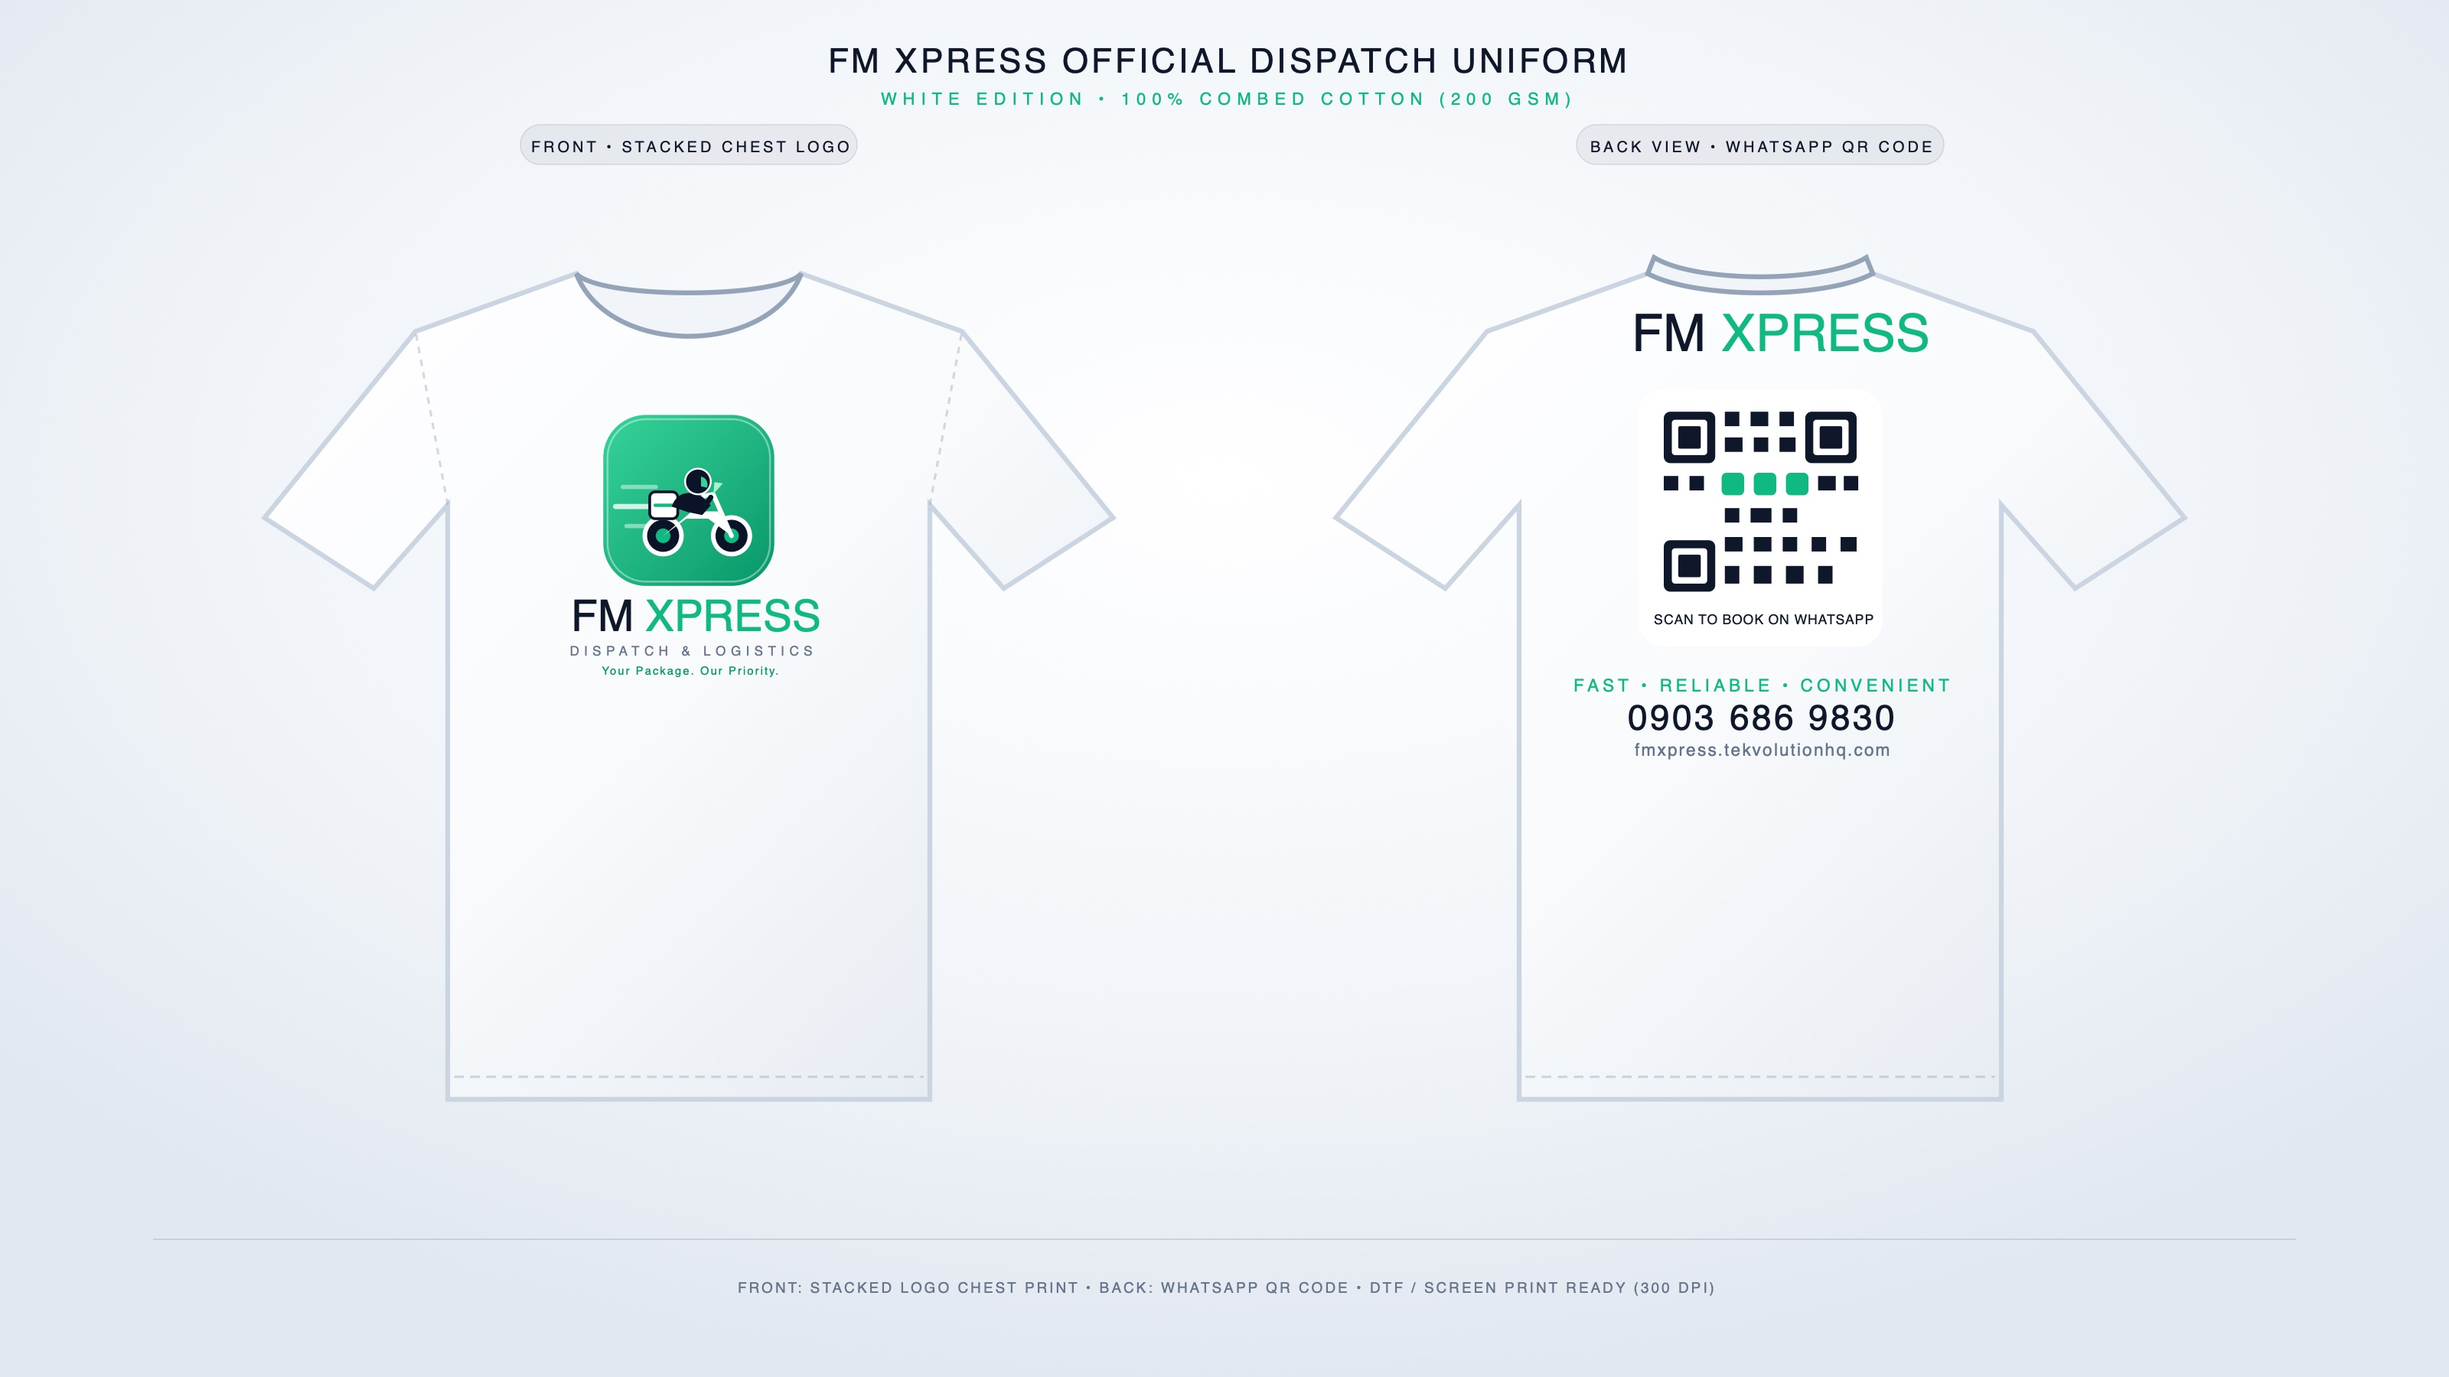
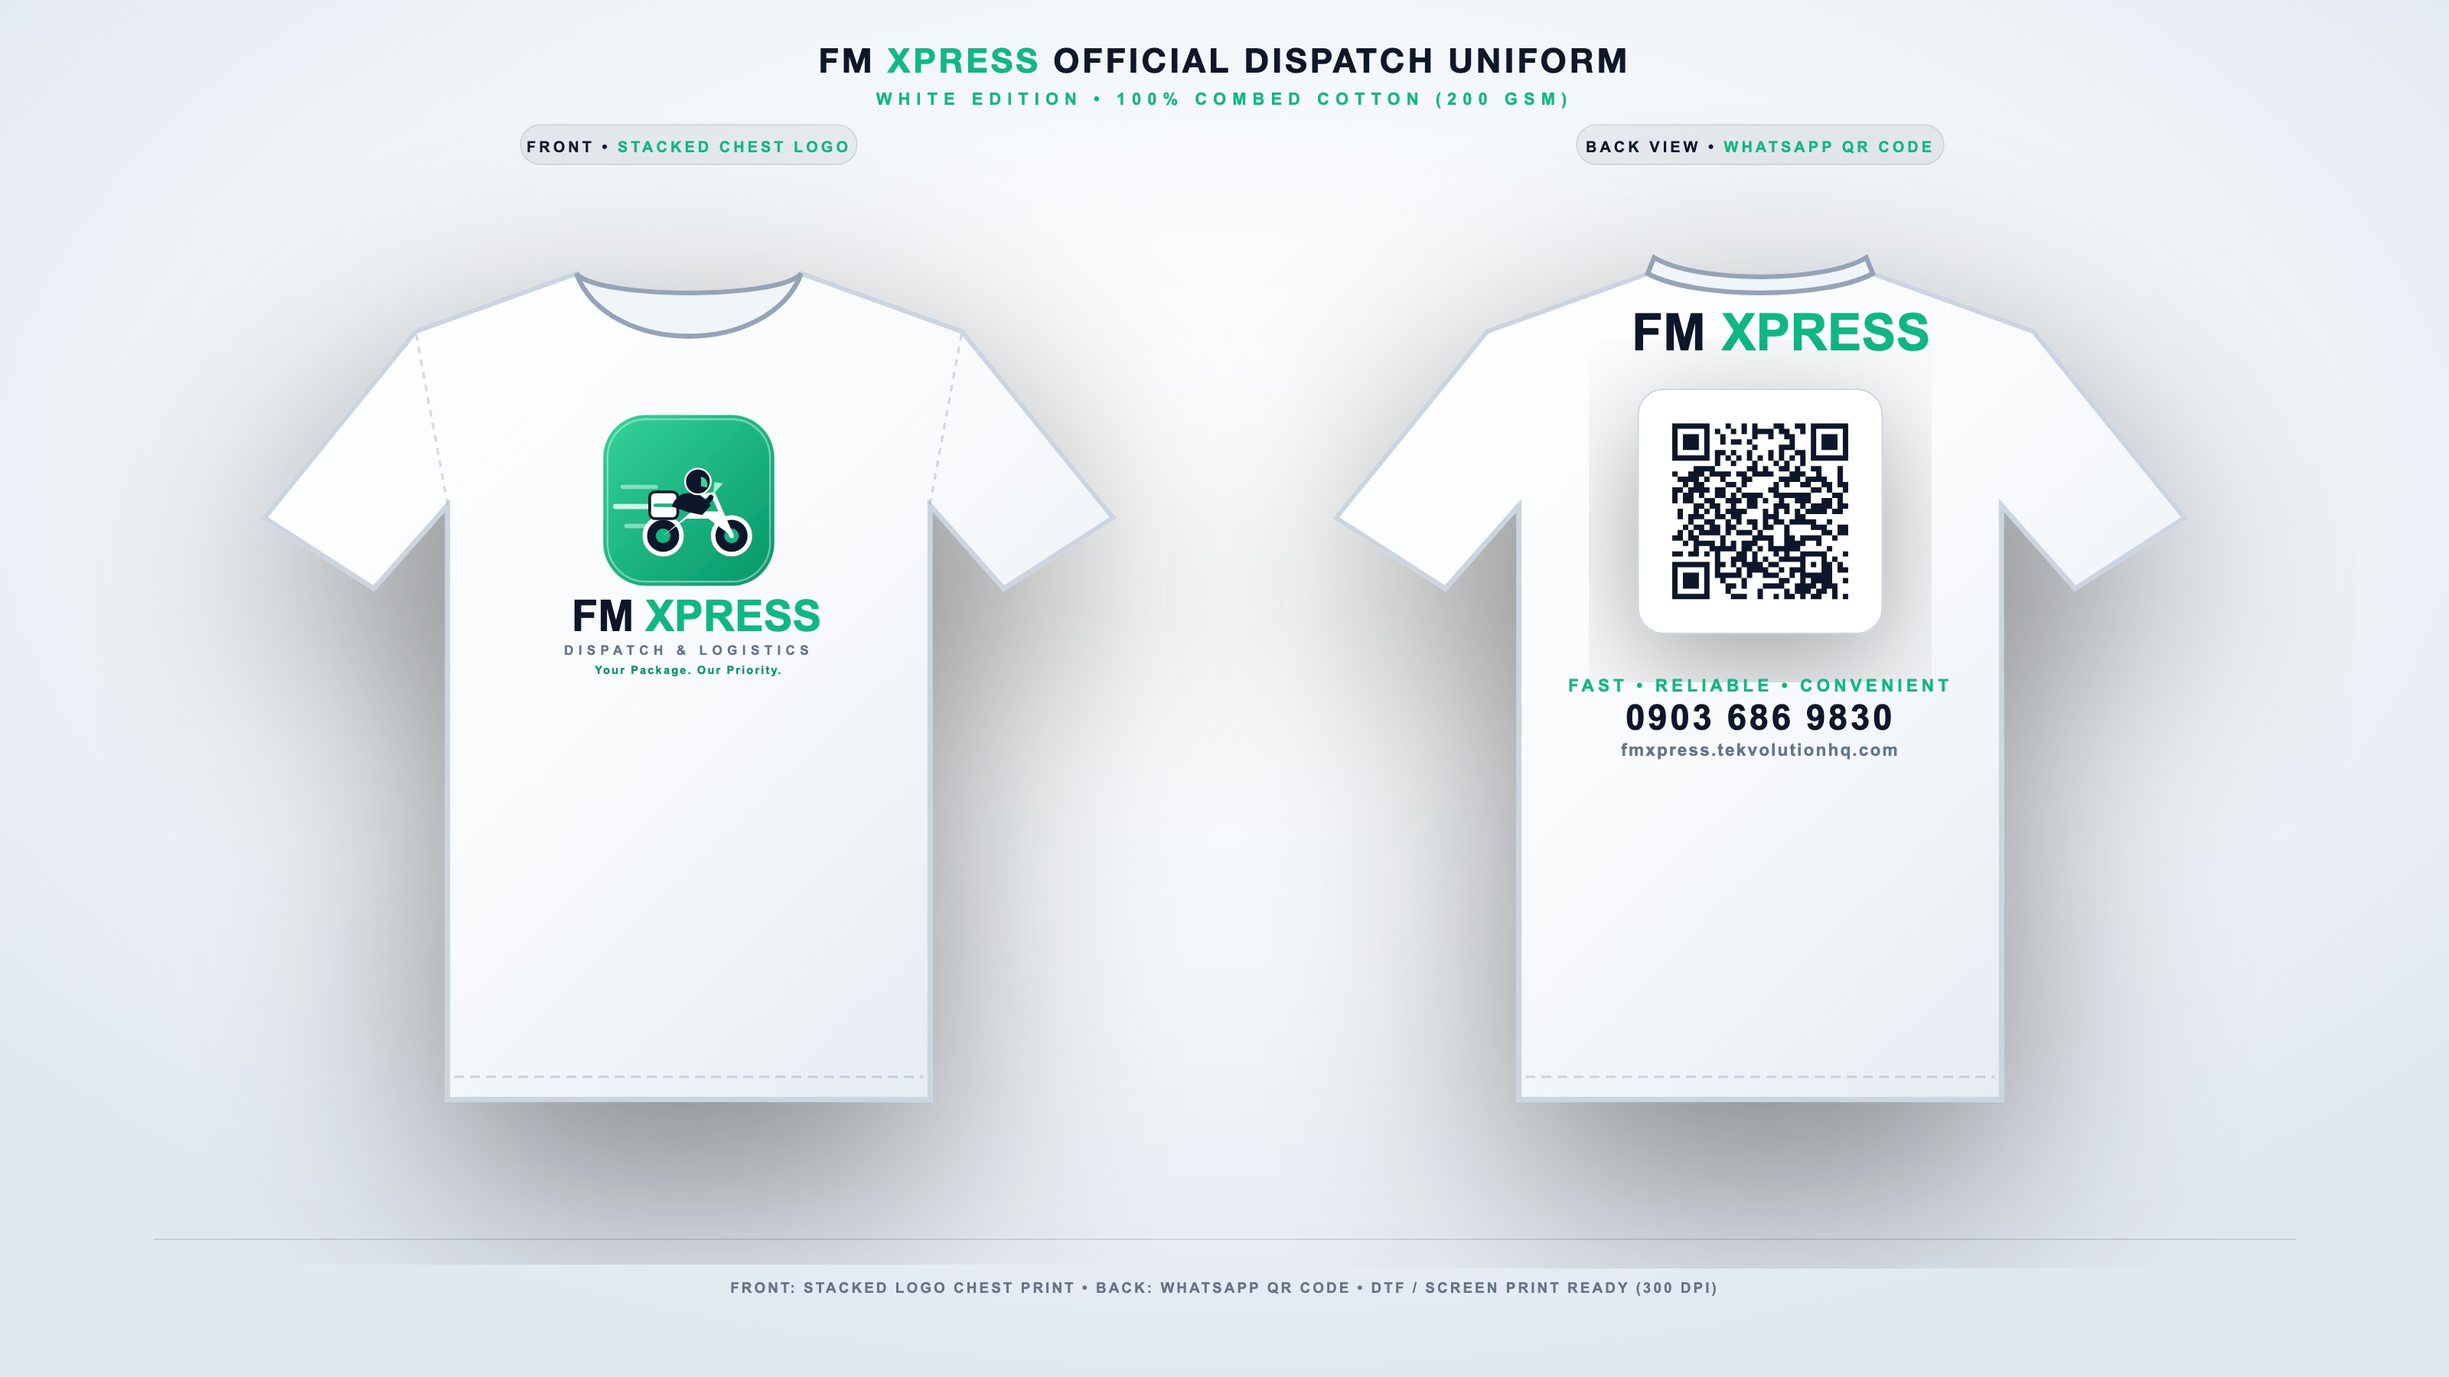
Replace mock T-shirt QR code with verified scannable WhatsApp vector QR (Level H)

diff --git a/public/tshirt-prototype.html b/public/tshirt-prototype.html
@@ -224,80 +224,26 @@
                 <tspan id="back-fm-text" fill="#FFFFFF" class="tshirt-transition">FM</tspan>
                 <tspan fill="#10B981" font-weight="900"> XPRESS</tspan>
               </text>
-              <text id="back-tagline" y="8.5" font-family="system-ui, -apple-system, sans-serif" font-weight="800" font-size="4.6" fill="#FFFFFF" letter-spacing="0.5" opacity="0.9" class="tshirt-transition">
-                YOUR PACKAGE. OUR PRIORITY.
-              </text>
-              <text y="16.5" font-family="system-ui, -apple-system, sans-serif" font-weight="800" font-size="4.8" fill="#10B981" letter-spacing="1.2">
-                CHAT &amp; BOOK ON WHATSAPP
-              </text>
 
-              <!-- QR CODE CONTAINER BADGE (PURE QR CODE) -->
-              <g transform="translate(-38, 20)">
+              <!-- QR CODE CONTAINER BADGE (PURE SCANNABLE QR CODE) -->
+              <g transform="translate(-38, 14)">
                 <!-- Crisp White Card with soft shadow -->
-                <rect width="76" height="80" rx="8" fill="#FFFFFF" filter="drop-shadow(0 4px 10px rgba(0,0,0,0.45))"/>
-                
-                <!-- === QR CODE SECTION === -->
-                <!-- Top-Left Finder Pattern -->
-                <rect x="8" y="7" width="16" height="16" fill="#0f172a" rx="2"/>
-                <rect x="10.5" y="9.5" width="11" height="11" fill="#FFFFFF" rx="1"/>
-                <rect x="12.5" y="11.5" width="7" height="7" fill="#0f172a" rx="0.5"/>
-
-                <!-- Top-Right Finder Pattern -->
-                <rect x="52" y="7" width="16" height="16" fill="#0f172a" rx="2"/>
-                <rect x="54.5" y="9.5" width="11" height="11" fill="#FFFFFF" rx="1"/>
-                <rect x="56.5" y="11.5" width="7" height="7" fill="#0f172a" rx="0.5"/>
-
-                <!-- Bottom-Left Finder Pattern -->
-                <rect x="8" y="47" width="16" height="16" fill="#0f172a" rx="2"/>
-                <rect x="10.5" y="49.5" width="11" height="11" fill="#FFFFFF" rx="1"/>
-                <rect x="12.5" y="51.5" width="7" height="7" fill="#0f172a" rx="0.5"/>
-
-                <!-- QR Data Matrix Dots -->
-                <rect x="27" y="7" width="4.5" height="4.5" fill="#0f172a"/>
-                <rect x="35" y="7" width="5.5" height="4.5" fill="#0f172a"/>
-                <rect x="44" y="7" width="4.5" height="4.5" fill="#0f172a"/>
-                <rect x="27" y="15" width="5.5" height="4.5" fill="#0f172a"/>
-                <rect x="36" y="15" width="4.5" height="4.5" fill="#0f172a"/>
-                <rect x="44" y="15" width="5" height="4.5" fill="#0f172a"/>
-                <rect x="8" y="27" width="4.5" height="4.5" fill="#0f172a"/>
-                <rect x="16" y="27" width="4.5" height="4.5" fill="#0f172a"/>
-                
-                <!-- Center Emerald Brand Target inside QR -->
-                <rect x="26" y="26" width="7" height="7" fill="#10B981" rx="1.5"/>
-                <rect x="36" y="26" width="7" height="7" fill="#10B981" rx="1.5"/>
-                <rect x="46" y="26" width="7" height="7" fill="#10B981" rx="1.5"/>
-                
-                <rect x="56" y="27" width="5.5" height="4.5" fill="#0f172a"/>
-                <rect x="64" y="27" width="4.5" height="4.5" fill="#0f172a"/>
-                <rect x="27" y="37" width="4.5" height="4.5" fill="#0f172a"/>
-                <rect x="35" y="37" width="6.5" height="4.5" fill="#0f172a"/>
-                <rect x="45" y="37" width="4.5" height="4.5" fill="#0f172a"/>
-                <rect x="27" y="46" width="5.5" height="4.5" fill="#0f172a"/>
-                <rect x="36" y="46" width="5.5" height="4.5" fill="#0f172a"/>
-                <rect x="45" y="46" width="4.5" height="4.5" fill="#0f172a"/>
-                <rect x="54" y="46" width="4.5" height="4.5" fill="#0f172a"/>
-                <rect x="63" y="46" width="5" height="4.5" fill="#0f172a"/>
-                <rect x="27" y="55" width="4.5" height="5.5" fill="#0f172a"/>
-                <rect x="36" y="55" width="5.5" height="5.5" fill="#0f172a"/>
-                <rect x="46" y="55" width="5.5" height="5.5" fill="#0f172a"/>
-                <rect x="56" y="55" width="4.5" height="5.5" fill="#0f172a"/>
-
-                <!-- SCAN TO CHAT LABEL -->
-                <text x="38" y="73" font-family="system-ui, -apple-system, sans-serif" font-weight="900" font-size="5" fill="#0f172a" text-anchor="middle" letter-spacing="0.4">
-                  SCAN TO BOOK ON WHATSAPP
-                </text>
+                <rect width="76" height="76" rx="8" fill="#FFFFFF" filter="drop-shadow(0 4px 10px rgba(0,0,0,0.45))"/>
+                <g transform="translate(4, 4) scale(1.6585365)">
+                  <path fill="#0F172A" d="M4,4H5V5H4zM5,4H6V5H5zM6,4H7V5H6zM7,4H8V5H7zM8,4H9V5H8zM9,4H10V5H9zM10,4H11V5H10zM14,4H15V5H14zM17,4H18V5H17zM19,4H20V5H19zM23,4H24V5H23zM24,4H25V5H24zM27,4H28V5H27zM28,4H29V5H28zM30,4H31V5H30zM31,4H32V5H31zM32,4H33V5H32zM33,4H34V5H33zM34,4H35V5H34zM35,4H36V5H35zM36,4H37V5H36zM4,5H5V6H4zM10,5H11V6H10zM12,5H13V6H12zM15,5H16V6H15zM17,5H18V6H17zM19,5H20V6H19zM20,5H21V6H20zM21,5H22V6H21zM22,5H23V6H22zM24,5H25V6H24zM25,5H26V6H25zM28,5H29V6H28zM30,5H31V6H30zM36,5H37V6H36zM4,6H5V7H4zM6,6H7V7H6zM7,6H8V7H7zM8,6H9V7H8zM10,6H11V7H10zM13,6H14V7H13zM19,6H20V7H19zM22,6H23V7H22zM25,6H26V7H25zM26,6H27V7H26zM30,6H31V7H30zM32,6H33V7H32zM33,6H34V7H33zM34,6H35V7H34zM36,6H37V7H36zM4,7H5V8H4zM6,7H7V8H6zM7,7H8V8H7zM8,7H9V8H8zM10,7H11V8H10zM13,7H14V8H13zM15,7H16V8H15zM16,7H17V8H16zM18,7H19V8H18zM26,7H27V8H26zM30,7H31V8H30zM32,7H33V8H32zM33,7H34V8H33zM34,7H35V8H34zM36,7H37V8H36zM4,8H5V9H4zM6,8H7V9H6zM7,8H8V9H7zM8,8H9V9H8zM10,8H11V9H10zM19,8H20V9H19zM24,8H25V9H24zM25,8H26V9H25zM26,8H27V9H26zM30,8H31V9H30zM32,8H33V9H32zM33,8H34V9H33zM34,8H35V9H34zM36,8H37V9H36zM4,9H5V10H4zM10,9H11V10H10zM12,9H13V10H12zM13,9H14V10H13zM15,9H16V10H15zM18,9H19V10H18zM22,9H23V10H22zM24,9H25V10H24zM27,9H28V10H27zM28,9H29V10H28zM30,9H31V10H30zM36,9H37V10H36zM4,10H5V11H4zM5,10H6V11H5zM6,10H7V11H6zM7,10H8V11H7zM8,10H9V11H8zM9,10H10V11H9zM10,10H11V11H10zM12,10H13V11H12zM14,10H15V11H14zM16,10H17V11H16zM18,10H19V11H18zM20,10H21V11H20zM22,10H23V11H22zM24,10H25V11H24zM26,10H27V11H26zM28,10H29V11H28zM30,10H31V11H30zM31,10H32V11H31zM32,10H33V11H32zM33,10H34V11H33zM34,10H35V11H34zM35,10H36V11H35zM36,10H37V11H36zM12,11H13V12H12zM15,11H16V12H15zM19,11H20V12H19zM23,11H24V12H23zM25,11H26V12H25zM28,11H29V12H28zM8,12H9V13H8zM9,12H10V13H9zM10,12H11V13H10zM11,12H12V13H11zM18,12H19V13H18zM19,12H20V13H19zM21,12H22V13H21zM24,12H25V13H24zM25,12H26V13H25zM27,12H28V13H27zM30,12H31V13H30zM31,12H32V13H31zM35,12H36V13H35zM4,13H5V14H4zM7,13H8V14H7zM8,13H9V14H8zM9,13H10V14H9zM11,13H12V14H11zM12,13H13V14H12zM13,13H14V14H13zM14,13H15V14H14zM16,13H17V14H16zM17,13H18V14H17zM19,13H20V14H19zM20,13H21V14H20zM21,13H22V14H21zM22,13H23V14H22zM26,13H27V14H26zM27,13H28V14H27zM28,13H29V14H28zM31,13H32V14H31zM35,13H36V14H35zM5,14H6V15H5zM6,14H7V15H6zM7,14H8V15H7zM8,14H9V15H8zM10,14H11V15H10zM13,14H14V15H13zM17,14H18V15H17zM18,14H19V15H18zM24,14H25V15H24zM25,14H26V15H25zM26,14H27V15H26zM27,14H28V15H27zM29,14H30V15H29zM30,14H31V15H30zM31,14H32V15H31zM32,14H33V15H32zM35,14H36V15H35zM6,15H7V16H6zM8,15H9V16H8zM9,15H10V16H9zM14,15H15V16H14zM15,15H16V16H15zM17,15H18V16H17zM23,15H24V16H23zM25,15H26V16H25zM28,15H29V16H28zM29,15H30V16H29zM32,15H33V16H32zM33,15H34V16H33zM35,15H36V16H35zM36,15H37V16H36zM4,16H5V17H4zM5,16H6V17H5zM7,16H8V17H7zM8,16H9V17H8zM9,16H10V17H9zM10,16H11V17H10zM12,16H13V17H12zM13,16H14V17H13zM16,16H17V17H16zM22,16H23V17H22zM23,16H24V17H23zM30,16H31V17H30zM31,16H32V17H31zM33,16H34V17H33zM36,16H37V17H36zM4,17H5V18H4zM6,17H7V18H6zM7,17H8V18H7zM9,17H10V18H9zM12,17H13V18H12zM13,17H14V18H13zM15,17H16V18H15zM17,17H18V18H17zM18,17H19V18H18zM19,17H20V18H19zM20,17H21V18H20zM23,17H24V18H23zM24,17H25V18H24zM25,17H26V18H25zM26,17H27V18H26zM27,17H28V18H27zM28,17H29V18H28zM29,17H30V18H29zM34,17H35V18H34zM35,17H36V18H35zM4,18H5V19H4zM6,18H7V19H6zM7,18H8V19H7zM10,18H11V19H10zM11,18H12V19H11zM14,18H15V19H14zM15,18H16V19H15zM16,18H17V19H16zM18,18H19V19H18zM19,18H20V19H19zM21,18H22V19H21zM24,18H25V19H24zM27,18H28V19H27zM28,18H29V19H28zM29,18H30V19H29zM32,18H33V19H32zM33,18H34V19H33zM35,18H36V19H35zM8,19H9V20H8zM9,19H10V20H9zM11,19H12V20H11zM12,19H13V20H12zM15,19H16V20H15zM18,19H19V20H18zM19,19H20V20H19zM23,19H24V20H23zM24,19H25V20H24zM25,19H26V20H25zM28,19H29V20H28zM30,19H31V20H30zM31,19H32V20H31zM32,19H33V20H32zM33,19H34V20H33zM35,19H36V20H35zM36,19H37V20H36zM5,20H6V21H5zM8,20H9V21H8zM10,20H11V21H10zM12,20H13V21H12zM14,20H15V21H14zM15,20H16V21H15zM16,20H17V21H16zM17,20H18V21H17zM21,20H22V21H21zM23,20H24V21H23zM25,20H26V21H25zM27,20H28V21H27zM29,20H30V21H29zM30,20H31V21H30zM31,20H32V21H31zM32,20H33V21H32zM34,20H35V21H34zM35,20H36V21H35zM5,21H6V22H5zM7,21H8V22H7zM8,21H9V22H8zM9,21H10V22H9zM12,21H13V22H12zM13,21H14V22H13zM15,21H16V22H15zM16,21H17V22H16zM21,21H22V22H21zM22,21H23V22H22zM23,21H24V22H23zM27,21H28V22H27zM28,21H29V22H28zM7,22H8V23H7zM10,22H11V23H10zM11,22H12V23H11zM14,22H15V23H14zM16,22H17V23H16zM18,22H19V23H18zM19,22H20V23H19zM21,22H22V23H21zM23,22H24V23H23zM24,22H25V23H24zM26,22H27V23H26zM27,22H28V23H27zM28,22H29V23H28zM29,22H30V23H29zM30,22H31V23H30zM33,22H34V23H33zM6,23H7V24H6zM8,23H9V24H8zM9,23H10V24H9zM11,23H12V24H11zM12,23H13V24H12zM14,23H15V24H14zM15,23H16V24H15zM19,23H20V24H19zM21,23H22V24H21zM22,23H23V24H22zM25,23H26V24H25zM30,23H31V24H30zM31,23H32V24H31zM32,23H33V24H32zM35,23H36V24H35zM36,23H37V24H36zM5,24H6V25H5zM7,24H8V25H7zM9,24H10V25H9zM10,24H11V25H10zM11,24H12V25H11zM12,24H13V25H12zM14,24H15V25H14zM16,24H17V25H16zM17,24H18V25H17zM18,24H19V25H18zM20,24H21V25H20zM25,24H26V25H25zM32,24H33V25H32zM33,24H34V25H33zM35,24H36V25H35zM36,24H37V25H36zM4,25H5V26H4zM5,25H6V26H5zM7,25H8V26H7zM8,25H9V26H8zM13,25H14V26H13zM19,25H20V26H19zM20,25H21V26H20zM21,25H22V26H21zM22,25H23V26H22zM25,25H26V26H25zM26,25H27V26H26zM28,25H29V26H28zM29,25H30V26H29zM30,25H31V26H30zM31,25H32V26H31zM34,25H35V26H34zM6,26H7V27H6zM8,26H9V27H8zM9,26H10V27H9zM10,26H11V27H10zM11,26H12V27H11zM13,26H14V27H13zM15,26H16V27H15zM17,26H18V27H17zM18,26H19V27H18zM19,26H20V27H19zM22,26H23V27H22zM25,26H26V27H25zM26,26H27V27H26zM27,26H28V27H27zM28,26H29V27H28zM31,26H32V27H31zM8,27H9V28H8zM11,27H12V28H11zM12,27H13V28H12zM13,27H14V28H13zM14,27H15V28H14zM15,27H16V28H15zM17,27H18V28H17zM18,27H19V28H18zM20,27H21V28H20zM22,27H23V28H22zM23,27H24V28H23zM24,27H25V28H24zM25,27H26V28H25zM26,27H27V28H26zM27,27H28V28H27zM33,27H34V28H33zM4,28H5V29H4zM5,28H6V29H5zM7,28H8V29H7zM8,28H9V29H8zM10,28H11V29H10zM12,28H13V29H12zM16,28H17V29H16zM17,28H18V29H17zM19,28H20V29H19zM23,28H24V29H23zM25,28H26V29H25zM28,28H29V29H28zM29,28H30V29H29zM30,28H31V29H30zM31,28H32V29H31zM32,28H33V29H32zM36,28H37V29H36zM12,29H13V30H12zM15,29H16V30H15zM16,29H17V30H16zM17,29H18V30H17zM19,29H20V30H19zM21,29H22V30H21zM24,29H25V30H24zM25,29H26V30H25zM26,29H27V30H26zM27,29H28V30H27zM28,29H29V30H28zM32,29H33V30H32zM34,29H35V30H34zM4,30H5V31H4zM5,30H6V31H5zM6,30H7V31H6zM7,30H8V31H7zM8,30H9V31H8zM9,30H10V31H9zM10,30H11V31H10zM12,30H13V31H12zM13,30H14V31H13zM15,30H16V31H15zM17,30H18V31H17zM18,30H19V31H18zM19,30H20V31H19zM20,30H21V31H20zM22,30H23V31H22zM23,30H24V31H23zM28,30H29V31H28zM30,30H31V31H30zM32,30H33V31H32zM33,30H34V31H33zM35,30H36V31H35zM4,31H5V32H4zM10,31H11V32H10zM12,31H13V32H12zM16,31H17V32H16zM18,31H19V32H18zM19,31H20V32H19zM20,31H21V32H20zM21,31H22V32H21zM24,31H25V32H24zM26,31H27V32H26zM27,31H28V32H27zM28,31H29V32H28zM32,31H33V32H32zM33,31H34V32H33zM35,31H36V32H35zM36,31H37V32H36zM4,32H5V33H4zM6,32H7V33H6zM7,32H8V33H7zM8,32H9V33H8zM10,32H11V33H10zM12,32H13V33H12zM13,32H14V33H13zM14,32H15V33H14zM15,32H16V33H15zM16,32H17V33H16zM18,32H19V33H18zM21,32H22V33H21zM22,32H23V33H22zM23,32H24V33H23zM26,32H27V33H26zM28,32H29V33H28zM29,32H30V33H29zM30,32H31V33H30zM31,32H32V33H31zM32,32H33V33H32zM33,32H34V33H33zM4,33H5V34H4zM6,33H7V34H6zM7,33H8V34H7zM8,33H9V34H8zM10,33H11V34H10zM13,33H14V34H13zM17,33H18V34H17zM24,33H25V34H24zM25,33H26V34H25zM28,33H29V34H28zM30,33H31V34H30zM31,33H32V34H31zM32,33H33V34H32zM33,33H34V34H33zM36,33H37V34H36zM4,34H5V35H4zM6,34H7V35H6zM7,34H8V35H7zM8,34H9V35H8zM10,34H11V35H10zM14,34H15V35H14zM15,34H16V35H15zM17,34H18V35H17zM21,34H22V35H21zM22,34H23V35H22zM23,34H24V35H23zM24,34H25V35H24zM27,34H28V35H27zM28,34H29V35H28zM29,34H30V35H29zM30,34H31V35H30zM32,34H33V35H32zM33,34H34V35H33zM34,34H35V35H34zM4,35H5V36H4zM10,35H11V36H10zM14,35H15V36H14zM20,35H21V36H20zM25,35H26V36H25zM27,35H28V36H27zM28,35H29V36H28zM29,35H30V36H29zM31,35H32V36H31zM32,35H33V36H32zM34,35H35V36H34zM4,36H5V37H4zM5,36H6V37H5zM6,36H7V37H6zM7,36H8V37H7zM8,36H9V37H8zM9,36H10V37H9zM10,36H11V37H10zM15,36H16V37H15zM16,36H17V37H16zM17,36H18V37H17zM20,36H21V37H20zM23,36H24V37H23zM25,36H26V37H25zM26,36H27V37H26zM28,36H29V37H28zM30,36H31V37H30zM31,36H32V37H31zM34,36H35V37H34zM36,36H37V37H36z"/>
+                </g>
               </g>
 
               <!-- BRAND PROMISE -->
-              <text y="113" font-family="system-ui, -apple-system, sans-serif" font-weight="800" font-size="5.2" fill="#10B981" letter-spacing="1.2">
+              <text y="104" font-family="system-ui, -apple-system, sans-serif" font-weight="800" font-size="5.2" fill="#10B981" letter-spacing="1.2">
                 FAST • RELIABLE • CONVENIENT
               </text>
 
               <!-- BOTTOM PHONE NUMBER & WEBSITE -->
-              <text id="back-phone" y="124" font-family="system-ui, -apple-system, sans-serif" font-weight="900" font-size="10.5" fill="#FFFFFF" letter-spacing="0.8" class="tshirt-transition">
+              <text id="back-phone" y="117" font-family="system-ui, -apple-system, sans-serif" font-weight="900" font-size="10.5" fill="#FFFFFF" letter-spacing="0.8" class="tshirt-transition">
                 0903 686 9830
               </text>
-              <text y="132" font-family="system-ui, -apple-system, sans-serif" font-weight="600" font-size="5.2" fill="#64748b" letter-spacing="0.5">
+              <text y="125" font-family="system-ui, -apple-system, sans-serif" font-weight="600" font-size="5.2" fill="#64748b" letter-spacing="0.5">
                 fmxpress.tekvolutionhq.com
               </text>
             </g>
